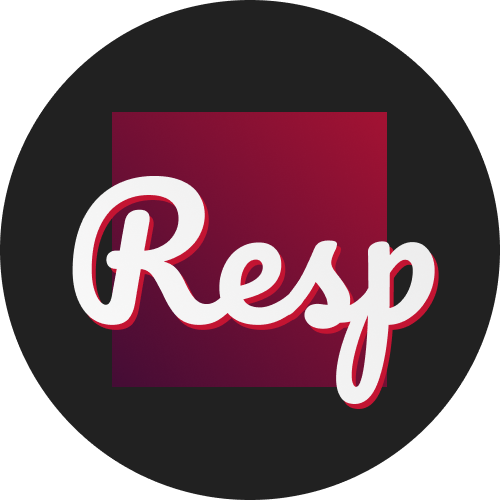
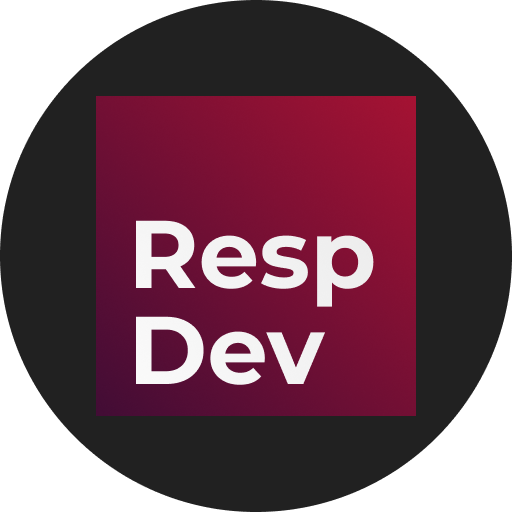
major ui changes

Changed region(s): [[0.12, 0.18, 0.9, 0.84], [0.84, 0.84, 0.87, 0.87]]

diff --git a/src/comps/Header.svelte b/src/comps/Header.svelte
@@ -1,64 +1,40 @@
 <script>
-	import Button from './Button.svelte';
-	export let title = '', 
-	description = '',
-	button = {};
-
+	export let title = '';
 	let innerWidth;
-	let height;
 </script>
 
 <svelte:window bind:innerWidth></svelte:window>
 
 <style>
+@import url('https://fonts.googleapis.com/css2?family=Montserrat:wght@700&display=swap');
+
 div.header {
-  display: flex;
-  align-items: center;
-  flex-direction: column;
-  justify-content: center;
-	padding: 4vh 10vw;
-	padding-top: calc(6vh + 1.2rem);
-	color: var(--primary-text);
-  text-align: center;
-	font-size: 1.6rem;
-}
-div > * {
-  margin: 30px 0;
-}
-div > *:empty {
-  display: none;
-}
-p {
-	line-height: 2.2rem;
-}
-div.background {
-	display: block;
-	position: absolute;
-  z-index: -1;
-	margin-top: -4vh;
-	width: 100%;
-	background-color: #141414;
-	overflow: hidden;
+	position: relative;
+  margin: 0 auto;
+  font-size: 4rem;
+	font-family: Montserrat;
+	width: 82vw;
+	padding-top: 9vh;
+	min-height: 30vh;
+	margin-bottom: 1rem;
+	background: linear-gradient(to right top, #420C35, #A51333);
 }
 
-div.background div {
-	display: block;
-	background: center no-repeat url('/banner.png');
-	background-size: contain;
-	width: 100%;
-	height: 100%;
-	filter: brightness(0.6) blur(10px);
+div.text {
+	position: absolute;
+	bottom: 1rem;
+	left: 1rem;
 }
-div.background.mobile div {
-	background: center no-repeat url('/fav.png');
+
+@media (max-width: 400px) {
+	div.header {
+		font-size: 5rem;
+	}
 }
 </style>
 
-<div class="header" id="header" bind:clientHeight={height}>
-	<div class="background {innerWidth <= 400 ? 'mobile' : ''}" style="height: {height}px">
-		<div></div>
+<div class="header">
+	<div class="text">
+		{innerWidth <= 400 ? 'Resp' : 'Responsive'}
 	</div>
-	<h1>{title}</h1>
-	<p><slot>{description}</slot></p>
-	<Button {...button} blank="true">{button.title}</Button>
 </div>

diff --git a/src/routes/events.svelte b/src/routes/events.svelte
@@ -11,7 +11,6 @@
 	import Article from "../comps/Article.svelte";
 	
 	let date = new Date('2021-05-28T04:00:00.000Z');
-	let minutes = Math.round(((date - new Date()) / 1000 / 60));
 	setInterval(function(){
 		minutes = Math.round(((date - new Date()) / 1000 / 60));
 	}, 10000);
@@ -30,28 +29,7 @@
 	We host a variety of weekly events such as hackathons, code jams, and even open discussions! All of these events are open to everyone, even late-arrivals! Most of these events last for about a week, and the results come out 1-3 days after.
 </Header>
 <Article title="What's Happening">
-	<p>Hi everyone! I hope everyone is doing well with their finals and the rest!</p>
-		<p>This is the Nth jam we&#39;ve had (no idea what number we&#39;re actually on). But guess what? It&#39;s 3 weeks this time!</p>
-		<p>The theme: <strong>puzzles</strong>! </p>
-		<p><strong>Starts on: Friday, May 7th</strong> (today)<br>
-		<strong>Ends on: Friday, May 28th</strong><br>
-		<u>You have 3 weeks (21days)</u></p>
-		<p><u>Submit To:</u><br>
-		<a rel="external" href="https://forms.gle/e7doRjf6oi6dYgCg8">https://forms.gle/e7doRjf6oi6dYgCg8</a></p>
-		<p><u>Requirements:</u><br>
-		Only requirement is that you have to create some sort of puzzle. That&#39;s it.</p>
-		<p><u>Bonus Points:</u></p>
-			<ul>
-				<li>You can also add several levels to make it longer!</li>
-				<li>You can combine multiple puzzle concepts at once!</li>
-			</ul>
-		<p><u>Judging:</u><br>
-		After the jam is up, everyone in the server will be able to vote on who they thought made the best creation.</p>
-		<p><u>Prize:</u><br>
-		Undefined.</p>
-		<p>(A custom role in the <a href="/discord">server</a>, and unlimited bragging rights)</p>
-		<p><em>Best of luck!</em></p>
-		
+	<h2>No Events to Show</h2>
 </Article>
 
 <Footer />

diff --git a/src/comps/Navbar.svelte b/src/comps/Navbar.svelte
@@ -1,7 +1,7 @@
 <script>
 	import Button from './Button.svelte';
 	let scrollY = 0;
-	$: top = scrollY === 0 ? '' : 'background';
+	$: top = scrollY < 70 ? '' : 'background';
 </script>
 
 <svelte:window bind:scrollY></svelte:window>
@@ -16,6 +16,7 @@ div.navbar {
   flex-direction: row;
   margin-bottom: -4vh;
   padding: 1vh 1vw;
+	padding-left: 9vw;
   max-width: 100vw;
   width: 100%;
   text-align: center;
@@ -25,10 +26,10 @@ div.navbar {
 .navbar .navbar-background {
   position: absolute;
   z-index: -1;
-  margin-left: -1vw;
+  margin-left: -10vw;
   width: 100%;
   height: 100%;
-  background-color: var(--primary-color);
+	background: linear-gradient(20deg, #5E0E34, #A51333);
   box-shadow: 0 0 9px 0 #000000bb;
   opacity: 0;
   transition: 200ms ease-out;

diff --git a/static/global.css b/static/global.css
@@ -1,8 +1,10 @@
+@import url('https://fonts.googleapis.com/css2?family=Montserrat:wght@700&display=swap');
+
 :root {
-	--primary-color: #991133;
+	--primary-color: #A51333;
 	--secondary-color: #212121;
 	--primary-text: #FAFAFA;
-	--secondary-text: #dd3660;
+	--secondary-text: #ec2b55;
 }
 
 * {
@@ -44,4 +46,4 @@ a, a:visited {
 	.article img {
 		max-width: 100% !important;
 	}
- }
+}
